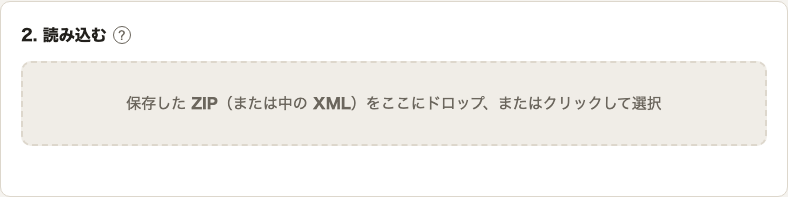
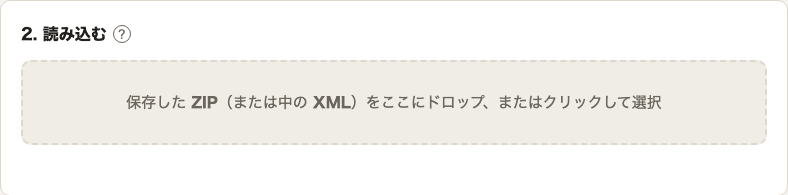
マニュアルのスクリーンショットを増やし、動画マニュアルへのリンクを追加 (#14)
- マニュアルの画像を3枚から16枚に増やす（生成ツール、コピー後の表示、チャットパレット、
  ファイルごとの処理結果、一括操作、貼り付け前の警告、ツールチップ、画面下のリンク、
  ココフォリアでの貼り付けと立ち絵の設定手順）
- 画像を作る scripts/manual-screenshots.mjs を追加（変換ページは毎回撮り直し、
  外部サイトの画面は撮影済みの画面から切り出して操作箇所を赤枠で囲む）
- 動画マニュアル（YouTube）へのリンクを本体ページの冒頭・画面下、マニュアル、README、
  配布ZIPの説明書に掲載
- build-manual.py: 画像を挟んだ番号付きリストの番号を引き継ぐ。太字の中のリンクも変換する
- E2E: 動画マニュアルへのリンクと、manual.md の画像がすべて表示されることを確認

Changed region(s): [[0.0, 0.9846, 1.0, 1.0], [0.0, 0.0, 1.0, 0.0308], [0.0305, 0.1231, 0.1827, 0.2154]]

diff --git a/index.html b/index.html
@@ -22,6 +22,7 @@
     ココフォリアに貼り付けられるキャラクターデータへ変換します。
     変換はこのブラウザの中だけで行い、ファイルはどこにも送信しません。
   </p>
+  <p class="video-link">▶ <a href="https://www.youtube.com/watch?v=qQDg6C3P3Zo" target="_blank" rel="noopener">動画マニュアルを見る</a>（YouTube・約1分30秒。キャラクターシートからココフォリアに貼り付けるまでの流れを紹介しています）</p>
 
   <section class="card" aria-labelledby="prep-h">
     <h2 id="prep-h">1. ユドナリウムのコマを用意する</h2>
@@ -104,7 +105,7 @@
   <footer>
     <p>ソースコード: <a href="https://github.com/kenken-trpg/dnd5e-udonarium-to-ccfolia" target="_blank" rel="noopener">GitHub</a></p>
     <p data-online-only>手元で使う: <a href="dnd5e-ccfolia.zip" download>ZIPをダウンロード</a>（展開した index.html をダブルクリックで開けます。インターネットにつながっていなくても使えます）</p>
-    <p>詳しい使い方とよくある質問: <a href="manual.html" target="_blank" rel="noopener">マニュアル</a>（ダウンロード版でも読めます）</p>
+    <p>詳しい使い方とよくある質問: <a href="manual.html" target="_blank" rel="noopener">マニュアル</a>（ダウンロード版でも読めます）／ 操作の流れ: <a href="https://www.youtube.com/watch?v=qQDg6C3P3Zo" target="_blank" rel="noopener">動画マニュアル</a>（YouTube）</p>
     <p>元データ: D&amp;D総合コミュニティ「D&amp;D5E キャラクターデータベース」／ コマ生成: うにバター氏「D&amp;D5e ユドナリウムPCコマ生成ツール」</p>
   </footer>
 </main>

diff --git a/style.css b/style.css
@@ -34,6 +34,8 @@ main { max-width: 820px; margin: 0 auto; padding: 32px 16px 64px; }
 h1 { font-size: 1.5rem; line-height: 1.3; margin: 0 0 6px; letter-spacing: .02em; }
 h2 { font-size: 1rem; margin: 0 0 12px; }
 .lead { color: var(--muted); margin: 0 0 24px; font-size: .9rem; }
+.video-link { margin: -12px 0 24px; font-size: .9rem; color: var(--muted); }
+.video-link a { font-weight: 600; }
 a { color: var(--accent); }
 .card {
   background: var(--surface); border: 1px solid var(--border); border-radius: var(--radius);

diff --git a/scripts/build-manual.py b/scripts/build-manual.py
@@ -3,6 +3,7 @@
 
 使い方: python3 scripts/build-manual.py 出力先.html
 対応する記法は docs/manual.md で使っている見出し・段落・リスト・表・リンク・画像・コード・太字だけ。
+画像は1行に1つだけ書き、リストの外（前後に空行）に置く。番号付きリストを画像の後に「2.」から続けると、番号を引き継ぐ。
 h2 見出しから目次を作り、h1 の直後に置く。
 """
 import html
@@ -25,7 +26,7 @@ def inline(text):
                 raise ValueError(f"Unsupported manual link: {url}")
             parts.append(f'<a href="{html.escape(url, quote=True)}">{inline(label)}</a>')
         else:
-            parts.append(f"<strong>{html.escape(bold)}</strong>")
+            parts.append(f"<strong>{inline(bold)}</strong>")
         end = match.end()
     parts.append(html.escape(text[end:]))
     return "".join(parts)
@@ -45,7 +46,9 @@ def render(source):
     def render_list(index, indent):
         first = list_item.match(lines[index])
         kind = "ul" if first[2] in ("-", "*") else "ol"
-        result = [f"<{kind}>"]
+        # 画像を挟んで手順を続けるとき（「2.」から始まる番号付きリスト）は、番号を引き継ぐ
+        start = int(first[2][:-1]) if kind == "ol" else 1
+        result = [f'<ol start="{start}">' if start != 1 else f"<{kind}>"]
         while index < len(lines):
             match = list_item.match(lines[index])
             if not match or len(match[1]) != indent:

diff --git a/CONTRIBUTING.md b/CONTRIBUTING.md
@@ -16,10 +16,19 @@
 | `docs/performance.md` / `docs/benchmarks/` | 性能計測の方法と結果 |
 | `scripts/build-site.sh` | GitHub Pages の配信物（アプリ・HTMLマニュアルと、手元で使うためのZIP）を作る |
 | `scripts/build-manual.py` | `docs/manual.md` を目次付きの静的HTMLにする（このマニュアルで使う記法だけに対応） |
+| `scripts/manual-screenshots.mjs` | マニュアルのスクリーンショット（`docs/images/`）を作る（下記） |
 | `scripts/benchmark.mjs` | 実ブラウザの性能計測 |
 | `streamlit_app.py` / `requirements.txt` / `.streamlit/` | 終了した Streamlit版の公開URLで、ブラウザ版へ案内するだけのページ（下記） |
 
 配布ビルドには Python 3・bash・zip を使う。`scripts/build-site.sh` で作った `_site/index.html` を開くと、マニュアルも含めて公開ページと同じものを手元で確かめられる。
+
+#### マニュアルのスクリーンショット
+
+画面を変えたら `node scripts/manual-screenshots.mjs` で `docs/images/` の変換ページの画像を撮り直す（Playwright の Chromium を使う。外部には通信しない）。
+生成ツールとココフォリアの画像（`generator.png`・`ccf-*.png`）は、撮影済みの画面（1280x720・倍率1.5）を
+`--external <フォルダ>` で渡したときだけ切り出し直し、操作する場所を赤枠で囲む。必要なファイルと撮り方はスクリプト冒頭のコメントにある。
+ほかの人のキャラクターやルームが写った画面は使わない。
+マニュアルの画像は1行に1つ、リストの外に置く（`scripts/build-manual.py` の対応範囲）。E2Eテストが、`docs/manual.md` の画像がすべて配布ZIPの `manual.html` で表示されることを確かめる。
 
 ### Streamlit版について
 

diff --git a/README.md b/README.md
@@ -3,7 +3,9 @@
 [D&D5e ユドナリウムPCコマ生成ツール](https://unib-5e-udonarium-pc.onrender.com/)（うにバター氏作）で保存したZIPを、ココフォリアに貼り付けられるキャラクターデータに変換します。
 **変換はブラウザ内で完結し、ファイルを外部に送信しません。**
 
-**[変換ツールを開く](https://kenken-trpg.github.io/dnd5e-udonarium-to-ccfolia/)** · [スクリーンショット付きマニュアル](docs/manual.md)
+**[変換ツールを開く](https://kenken-trpg.github.io/dnd5e-udonarium-to-ccfolia/)** · [スクリーンショット付きマニュアル](docs/manual.md) · [動画マニュアル（YouTube・約1分30秒）](https://www.youtube.com/watch?v=qQDg6C3P3Zo)
+
+<a href="https://www.youtube.com/watch?v=qQDg6C3P3Zo"><img src="https://i.ytimg.com/vi/qQDg6C3P3Zo/maxresdefault.jpg" width="480" alt="動画マニュアル: キャラクターシートからココフォリアのコマを作る方法（YouTube）"></a>
 
 ## 使い方
 
